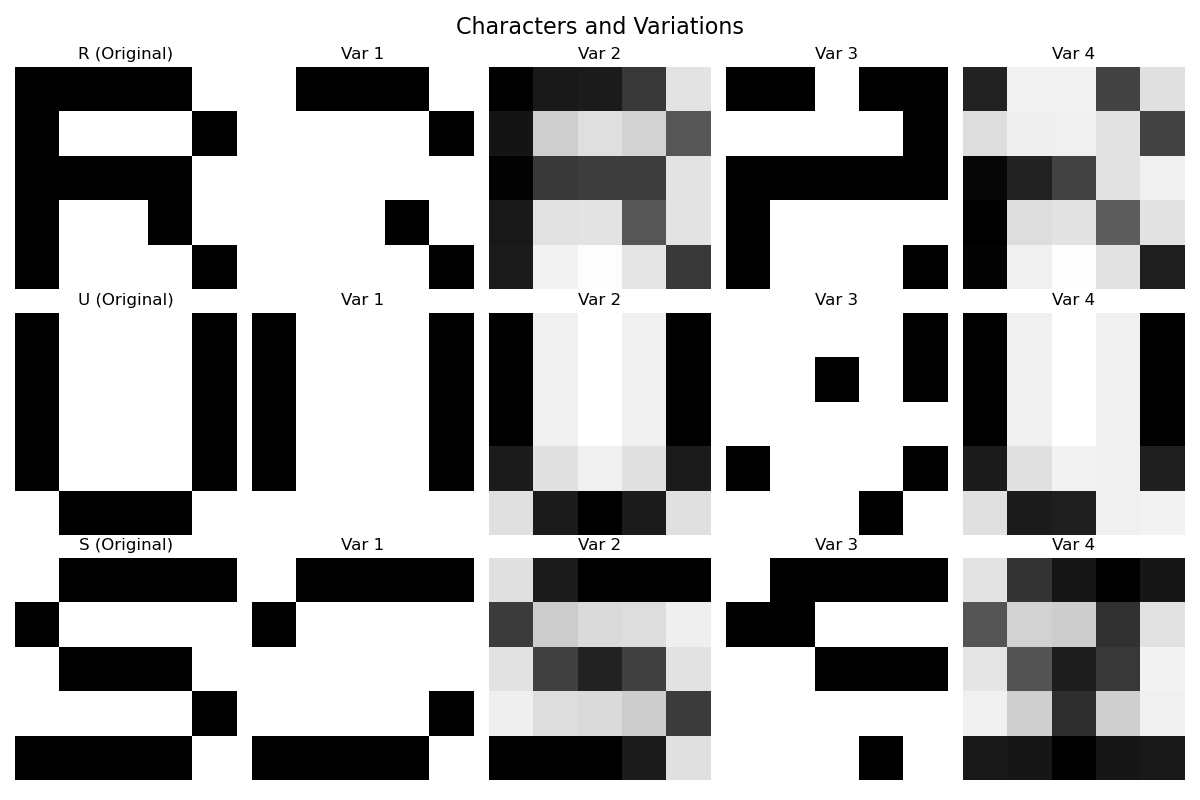
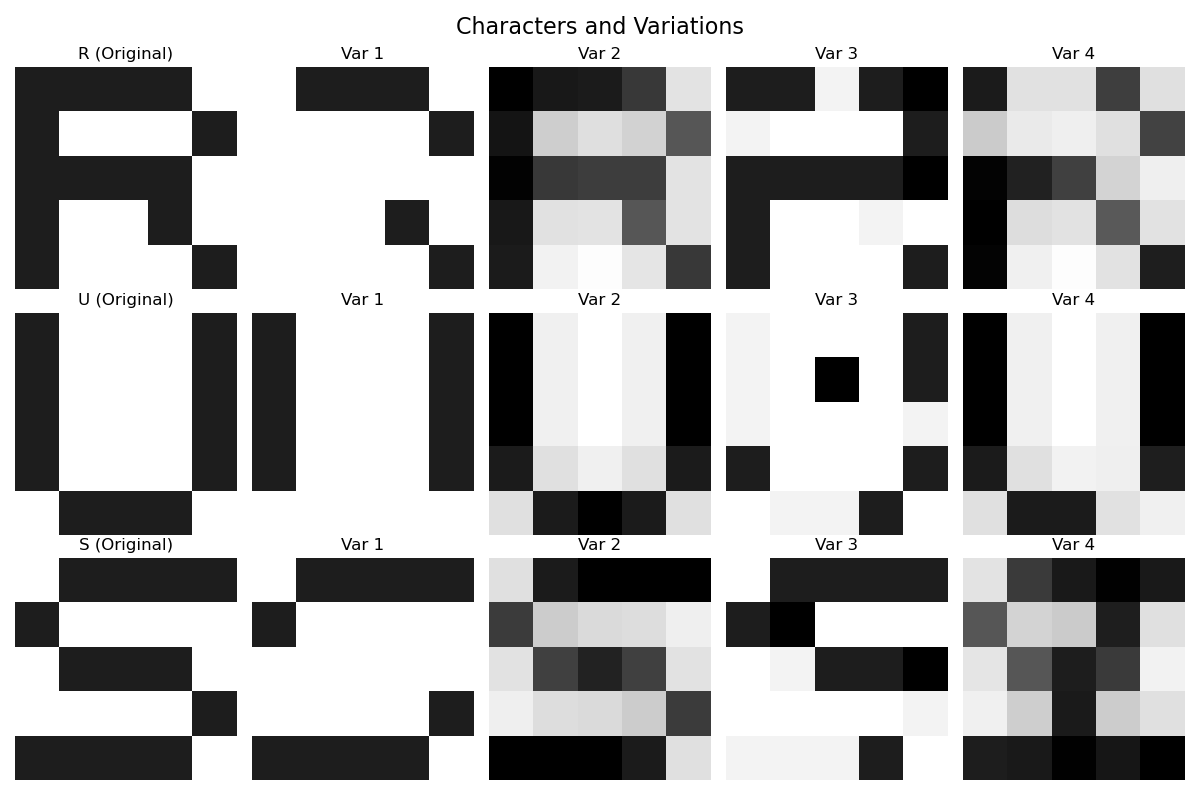
update:the stroke logic

diff --git a/assignment_4.py b/assignment_4.py
@@ -13,25 +13,25 @@ TOTAL_INPUTS = NUM_CHARS * NUM_VARIATIONS_PER_CHAR
 
 characters = {
   "R": np.array([
-    [1, 1, 1, 1, 0],
-    [1, 0, 0, 0, 1],
-    [1, 1, 1, 1, 0],
-    [1, 0, 0, 1, 0],
-    [1, 0, 0, 0, 1]
+    [0.9, 0.9, 0.9, 0.9, 0],
+    [0.9, 0, 0, 0, 0.9],
+    [0.9, 0.9, 0.9, 0.9, 0],
+    [0.9, 0, 0, 0.9, 0],
+    [0.9, 0, 0, 0, 0.9]
   ]),
   "U": np.array([
-    [1, 0, 0, 0, 1],
-    [1, 0, 0, 0, 1],
-    [1, 0, 0, 0, 1],
-    [1, 0, 0, 0, 1],
-    [0, 1, 1, 1, 0]
+    [0.9, 0, 0, 0, 0.9],
+    [0.9, 0, 0, 0, 0.9],
+    [0.9, 0, 0, 0, 0.9],
+    [0.9, 0, 0, 0, 0.9],
+    [0, 0.9, 0.9, 0.9, 0]
   ]),
   "S": np.array([
-      [0, 1, 1, 1, 1],
-      [1, 0, 0, 0, 0],
-      [0, 1, 1, 1, 0],
-      [0, 0, 0, 0, 1],
-      [1, 1, 1, 1, 0]
+      [0, 0.9, 0.9, 0.9, 0.9],
+      [0.9, 0, 0, 0, 0],
+      [0, 0.9, 0.9, 0.9, 0],
+      [0, 0, 0, 0, 0.9],
+      [0.9, 0.9, 0.9, 0.9, 0]
   ])
 }
 
@@ -49,12 +49,12 @@ def create_variations():
     for char_name, char_matrix in characters.items():
         emphasized_strokes_variant = char_matrix.copy()
         if char_name == 'R':
-            emphasized_strokes_variant[2, :4] = 0.6
-            emphasized_strokes_variant[:, 0] = 0.6
+            emphasized_strokes_variant[2, :4] = 0
+            emphasized_strokes_variant[:, 0] = 0
         elif char_name == 'U':
-            emphasized_strokes_variant[4, 1:4] = 0.6
+            emphasized_strokes_variant[4, 1:4] = 0
         elif char_name == 'S':
-            emphasized_strokes_variant[2, 1:4] = 0.6
+            emphasized_strokes_variant[2, 1:4] = 0
 
         blurred_variant = gaussian_filter(char_matrix.astype(float), sigma=0.5)
         if blurred_variant.max() > 0:
